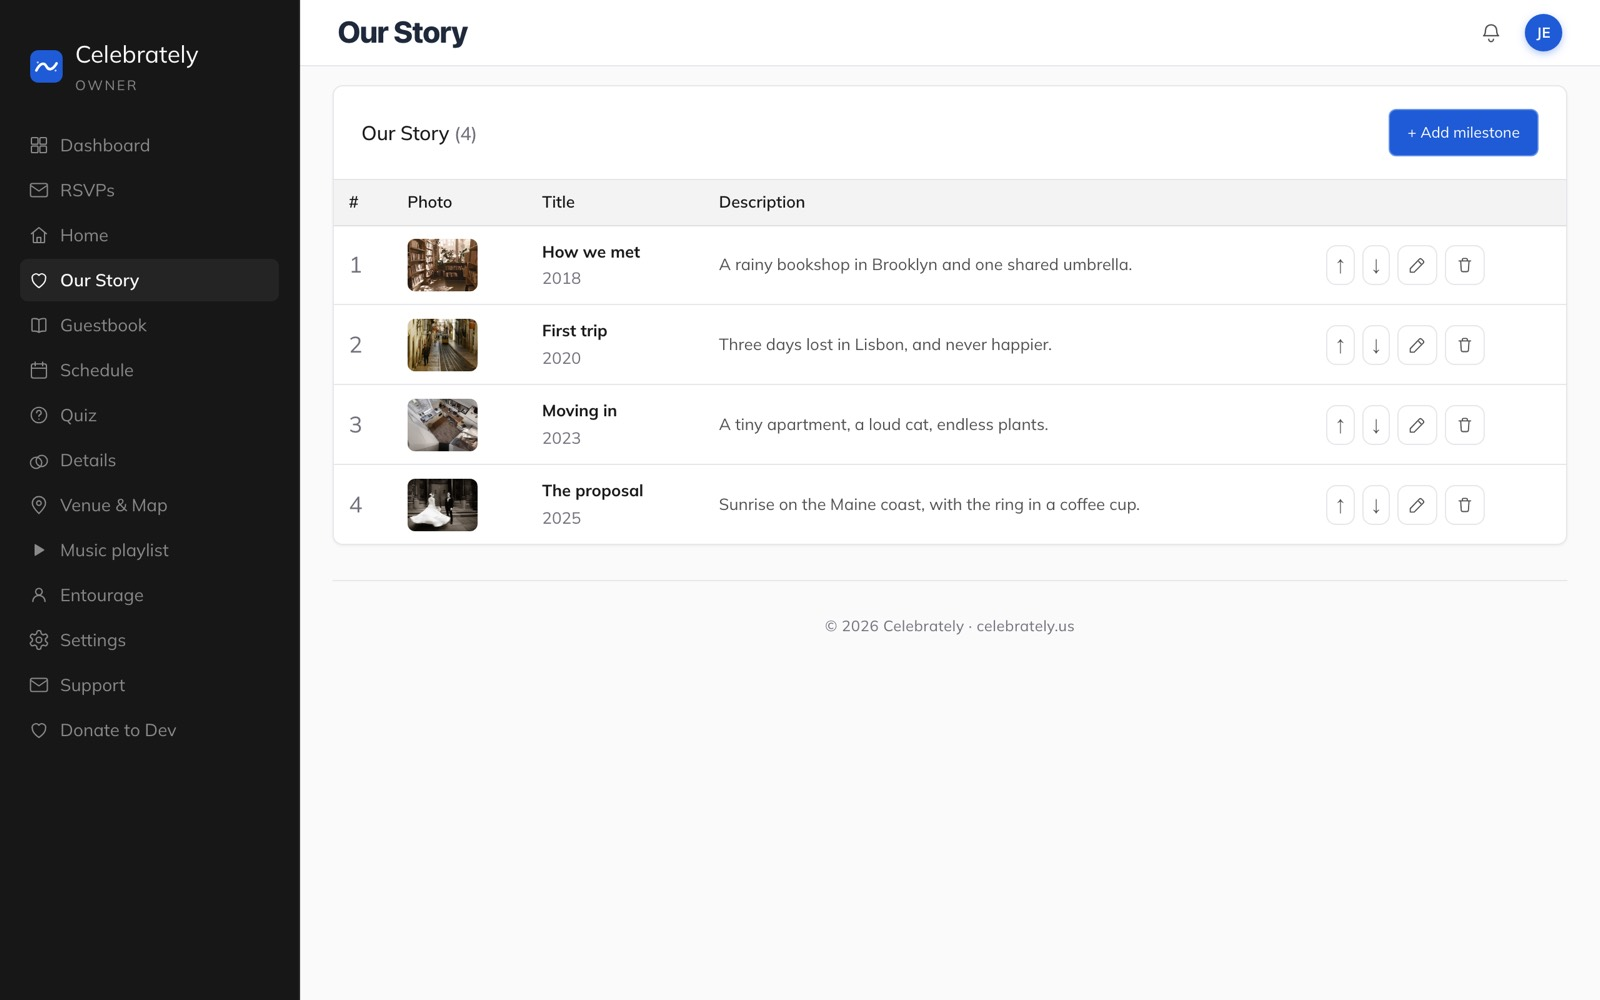
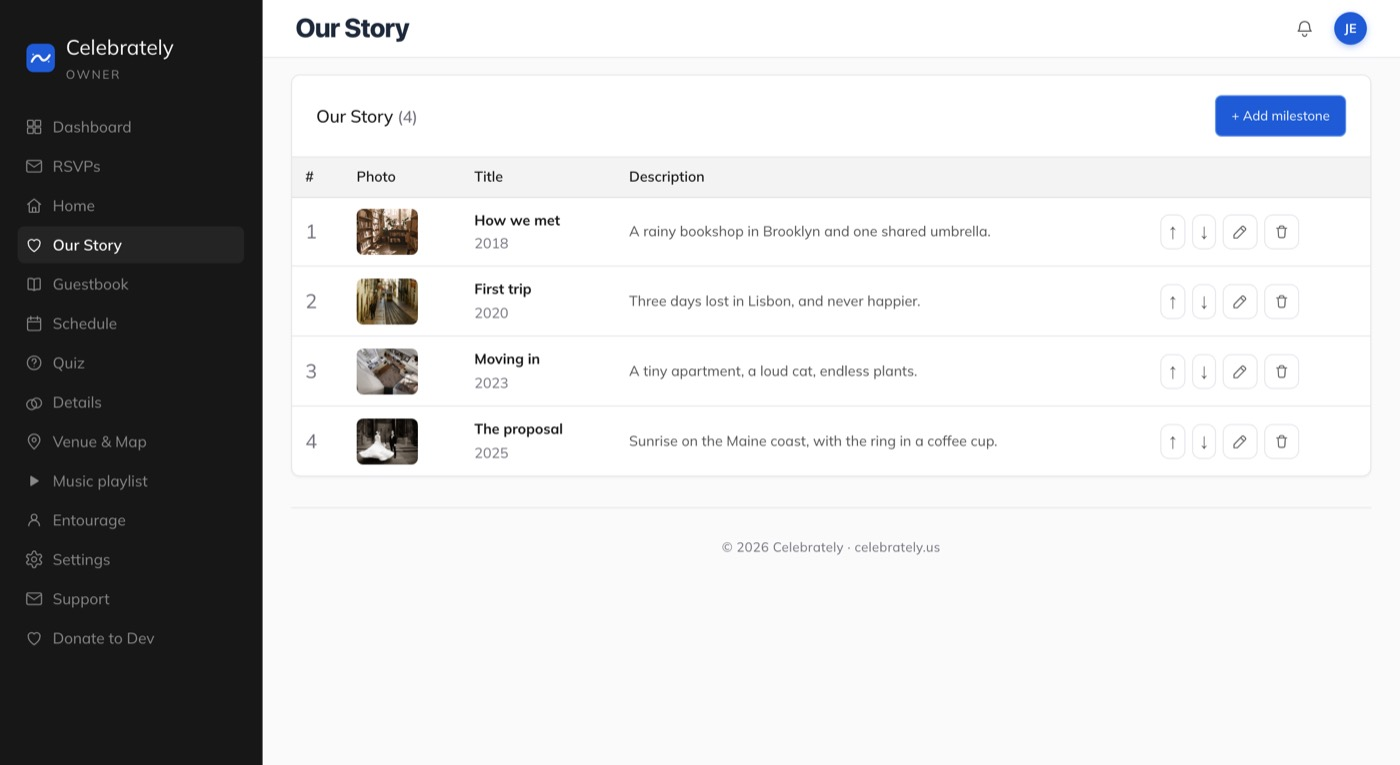
refactor: locked-feature page — schedule-style horizontal rail, no badges, no hint
Owner: the desktop preview was too big, drop the "In your dashboard" /
"What your guests see" badges, match the schedule's horizontal carousel, and
drop the "part of the Premium plan" line — the page should be clean.

- RailNav (the frosted chevron/dot pill under the public schedule's horizontal
  timeline) moves from PublicPages into components.jsx and is now shared. The
  locked preview is a snap-scroll rail paged by the same widget, with the same
  scroll-progress → active-dot mapping, so it swipes on a phone and drags on a
  trackpad instead of crossfading in place.
- Screenshots capped at 560px wide (was a full-bleed 16/10 frame) and re-cropped
  to 1280x700 so neither slide carries dead whitespace. Both slides share an
  aspect ratio, so the rail height never jumps.
- Badges, per-slide captions and the Premium hint line are gone. What's left:
  padlock, title, one line of description, the shots, one button.
- Header/rail/CTA get one staggered entrance; autoplay every 5s pauses on
  hover, focus and touch, and is off under prefers-reduced-motion.

Verified at 1380px and 414px: 2 slides, pill with 2 dots + 2 chevrons, 0 badges,
0 captions, no hint text, image 560x307 desktop / 358x197 mobile, autoplay pages
the rail on its own and the chevron pages back, no horizontal page scroll.

diff --git a/src/admin/manage.jsx b/src/admin/manage.jsx
@@ -2,7 +2,7 @@ import React from "react";
 import { go } from "@/lib/nav.js";
 import { Store, useStore, uid } from "@/lib/store.jsx";
 import { EG_TINTS, ENV_COLORS, ENV_SEAL_MASK, ENV_SEAL_POS, THEMES, THEME_FONTS, egTintGradientFor, envColorFilterFor, isPremiumTheme, isEnvelopeTheme } from "@/themes";
-import { Button, CropModal, DecorPreview, FallingFx, Field, Icon, Input, Modal, Monogram, Pager, Placeholder, SectionHead, Select, Textarea, confirmDialog, mapEmbedUrl, mapSearchUrl, toast, usePaged } from "@/ui/components.jsx";
+import { Button, CropModal, DecorPreview, FallingFx, Field, Icon, Input, Modal, Monogram, Pager, Placeholder, RailNav, SectionHead, Select, Textarea, confirmDialog, mapEmbedUrl, mapSearchUrl, toast, usePaged } from "@/ui/components.jsx";
 import { FX_LIST } from "@/lib/falling-fx.js";
 import { Home } from "@/pages/PublicPages.jsx";
 import { AdminDashboard, AdminLogin, Logo, QRCanvas, downloadCSV, downloadQR, fmtDate } from "@/admin/core.jsx";
@@ -4198,47 +4198,62 @@ export function MusicAdmin({ headExtra = null }) {
 // jpgs in public/assets/locked/ and add a key here.
 const LOCKED_SHOTS = {
   story: [
-    { src: "/assets/locked/story-admin.jpg", tag: "In your dashboard", cap: "Add each milestone — a photo, the year, and a line about the moment." },
-    { src: "/assets/locked/story-public.jpg", tag: "What your guests see", cap: "Your story reads as a timeline on your website, in your theme." },
+    { src: "/assets/locked/story-admin.jpg", alt: "the Our Story editor in your dashboard" },
+    { src: "/assets/locked/story-public.jpg", alt: "the Our Story page your guests read" },
   ],
 };
 
-// Auto-playing screenshot carousel for the locked-feature pitch. Crossfade, dots
-// to jump, pauses on hover/focus; honours prefers-reduced-motion (no autoplay,
-// no transition — the dots still work).
+// Screenshot carousel for the locked-feature pitch, built exactly like the
+// public schedule's horizontal timeline: a snap-scroll rail paged by the frosted
+// chevron/dot pill (RailNav), so it swipes on a phone and drags on a trackpad.
+// Advances itself every 5s; pauses on hover/focus and under prefers-reduced-motion.
 export function LockedCarousel({ shots, label }) {
-  const [i, setI] = useState(0);
+  const rail = useRef(null);
+  const [active, setActive] = useState(0);
   const [paused, setPaused] = useState(false);
   const n = shots.length;
+  // scroll PROGRESS → active dot: dot i maps to scroll fraction i/(n-1), the
+  // same mapping useRailNav uses on the public site.
+  useEffect(() => {
+    const el = rail.current;
+    if (!el) return;
+    const update = () => {
+      const max = el.scrollWidth - el.clientWidth;
+      const frac = max > 4 ? el.scrollLeft / max : 0;
+      const idx = n > 1 ? Math.max(0, Math.min(n - 1, Math.round(frac * (n - 1)))) : 0;
+      setActive((p) => (p === idx ? p : idx));
+    };
+    update();
+    el.addEventListener("scroll", update, { passive: true });
+    window.addEventListener("resize", update);
+    return () => { el.removeEventListener("scroll", update); window.removeEventListener("resize", update); };
+  }, [n]);
+  const toItem = useCallback((i) => {
+    const el = rail.current;
+    if (!el) return;
+    const max = el.scrollWidth - el.clientWidth;
+    const j = Math.max(0, Math.min(n - 1, i));
+    el.scrollTo({ left: n > 1 ? (j / (n - 1)) * max : 0, behavior: "smooth" });
+  }, [n]);
   useEffect(() => {
     if (paused || n < 2) return;
     const still = typeof window !== "undefined" && window.matchMedia && window.matchMedia("(prefers-reduced-motion: reduce)").matches;
     if (still) return;
-    const t = setTimeout(() => setI((v) => (v + 1) % n), 4500);
+    const t = setTimeout(() => toItem((active + 1) % n), 5000);
     return () => clearTimeout(t);
-  }, [i, paused, n]);
+  }, [active, paused, n, toItem]);
   const hold = () => setPaused(true);
   const release = () => setPaused(false);
   return (
-    <div className="lcar" onMouseEnter={hold} onMouseLeave={release} onFocus={hold} onBlur={release}>
-      <div className="lcar__frame">
+    <div className="lcar" onMouseEnter={hold} onMouseLeave={release} onFocus={hold} onBlur={release} onTouchStart={hold}>
+      <div className="lcar__rail" ref={rail}>
         {shots.map((s, k) => (
-          <div key={s.src} className={"lcar__slide" + (k === i ? " lcar__slide--on" : "")} aria-hidden={k !== i}>
-            <img src={s.src} alt={`${label} — ${s.tag}`} loading={k === 0 ? "eager" : "lazy"} draggable="false" />
-            <span className="lcar__tag">{s.tag}</span>
+          <div key={s.src} className="lcar__slide">
+            <img src={s.src} alt={`${label} — ${s.alt}`} loading={k === 0 ? "eager" : "lazy"} draggable="false" />
           </div>
         ))}
       </div>
-      {/* caption sits BELOW the frame — on a phone an overlay would cover half the shot */}
-      <p className="lcar__cap">{shots[i].cap}</p>
-      {n > 1 && (
-        <div className="lcar__dots" role="tablist" aria-label={`${label} preview`}>
-          {shots.map((s, k) => (
-            <button key={s.src} type="button" role="tab" aria-selected={k === i} aria-label={s.tag}
-              className={"lcar__dot" + (k === i ? " lcar__dot--on" : "")} onClick={() => setI(k)} />
-          ))}
-        </div>
-      )}
+      {n > 1 && <RailNav n={n} active={active} toItem={toItem} itemNoun="preview" />}
     </div>
   );
 }
@@ -4256,14 +4271,13 @@ export function LockedFeature({ featureKey, goPurchase, children }) {
   if (shots && shots.length) return (
     <div className="lockpitch">
       <div className="lockpitch__head">
-        <div className="locked__icon">{Icon.lock({ style: { width: 26, height: 26 } })}</div>
+        <span className="lockpitch__lock">{Icon.lock({ style: { width: 18, height: 18 } })}</span>
         <h3 className="lockpitch__title">{label} is locked</h3>
         <p className="lockpitch__desc">{desc}</p>
       </div>
       <LockedCarousel shots={shots} label={label} />
       <div className="lockpitch__cta">
         <Button variant="primary" onClick={goPurchase}>{Icon.lock({ style: { width: 15, height: 15 } })} Purchase Premium</Button>
-        <p className="locked__hint">This feature is part of the Premium plan — see what's included.</p>
       </div>
     </div>
   );

diff --git a/src/styles/styles.css b/src/styles/styles.css
@@ -927,36 +927,33 @@ input[type="datetime-local"].input::-webkit-datetime-edit { padding: 0; }
 .admin__navlock { margin-left: auto; display: inline-flex; color: var(--muted); flex: none; }
 .admin__navlock svg { width: 13px; height: 13px; }
 
-/* Locked feature WITH screenshots — the pitch replaces the blurred page: lock
-   header, auto-playing carousel (owner's module + the guest-facing page), CTA. */
-.lockpitch { max-width: 820px; margin: 0 auto; padding: 6px 0 10px; }
-.lockpitch__head { text-align: center; margin-bottom: 18px; }
-.lockpitch__title { margin: 0 0 6px; font-size: 21px; color: var(--ink); }
-.lockpitch__desc { margin: 0 auto; max-width: 520px; color: var(--muted); font-size: 14.5px; line-height: 1.55; }
-.lockpitch__cta { text-align: center; margin-top: 20px; }
+/* Locked feature WITH screenshots — the pitch replaces the blurred page. Quiet
+   by design: one padlock, one line of type, the screenshots, one button. The
+   carousel is the public schedule's rail (snap-scroll + frosted RailNav pill). */
+.lockpitch { max-width: 680px; margin: 0 auto; padding: 10px 0 6px; text-align: center; }
+.lockpitch__head { margin-bottom: 22px; }
+.lockpitch__lock { display: inline-grid; place-items: center; width: 34px; height: 34px; margin-bottom: 12px;
+  border-radius: 10px; background: var(--accent-soft); color: var(--accent); }
+.lockpitch__title { margin: 0 0 7px; font-size: 20px; letter-spacing: -.01em; color: var(--ink); }
+.lockpitch__desc { margin: 0 auto; max-width: 430px; color: var(--muted); font-size: 14px; line-height: 1.6; }
+.lockpitch__cta { margin-top: 22px; }
 
-.lcar { position: relative; }
-/* fixed 16/10 frame — both slides are captured at 1280x800, so nothing crops */
-.lcar__frame { position: relative; aspect-ratio: 16 / 10; border: 1px solid var(--line); border-radius: 14px; overflow: hidden; background: var(--surface-2); box-shadow: 0 26px 54px -26px rgba(0,0,0,.45); }
-.lcar__slide { position: absolute; inset: 0; margin: 0; opacity: 0; transition: opacity .6s ease; pointer-events: none; }
-.lcar__slide--on { opacity: 1; }
-.lcar__slide img { display: block; width: 100%; height: 100%; object-fit: cover; object-position: top center; }
-/* small badge over the shot ("in your dashboard" / "what your guests see") */
-.lcar__tag { position: absolute; top: 10px; left: 10px; font-weight: 800; font-size: 10.5px; letter-spacing: .08em; text-transform: uppercase;
-  color: #fff; background: rgba(12,14,20,.82); border-radius: 100px; padding: 5px 11px; backdrop-filter: saturate(160%) blur(2px); }
-/* caption BELOW the frame, never over the screenshot (a phone frame is small) */
-.lcar__cap { margin: 12px auto 0; max-width: 560px; text-align: center; color: var(--muted); font-size: 13.5px; line-height: 1.5; }
-.lcar__dots { display: flex; justify-content: center; gap: 8px; margin-top: 12px; }
-.lcar__dot { width: 8px; height: 8px; padding: 0; border: none; border-radius: 50%; background: var(--line); cursor: pointer; transition: background .25s ease, transform .25s ease; }
-.lcar__dot--on { background: var(--accent); transform: scale(1.35); }
-@media (max-width: 560px) {
-  .lcar__cap { font-size: 12.5px; }
-  .lcar__tag { font-size: 9.5px; padding: 4px 9px; top: 8px; left: 8px; }
-}
-@media (prefers-reduced-motion: reduce) {
-  .lcar__slide { transition: none; }
-  .lcar__dot { transition: none; }
-}
+/* one screenshot per snap slide; the shot itself is capped so a wide desktop
+   doesn't blow it up to poster size */
+.lcar__rail { display: flex; overflow-x: auto; scroll-snap-type: x mandatory; scrollbar-width: none; -webkit-overflow-scrolling: touch; }
+.lcar__rail::-webkit-scrollbar { display: none; }
+.lcar__slide { flex: 0 0 100%; min-width: 0; scroll-snap-align: center; display: flex; justify-content: center; padding: 2px; }
+.lcar__slide img { display: block; width: 100%; max-width: 560px; height: auto; border-radius: 12px;
+  border: 1px solid var(--line); background: var(--surface); box-shadow: 0 18px 40px -24px rgba(0,0,0,.42); }
+/* the rail's pill sits tighter than the public timeline's */
+.lockpitch .tl-nav { margin-top: 16px; }
+@media (max-width: 560px) { .lcar__slide img { border-radius: 10px; } }
+/* one composed entrance: header, then the shot, then the button */
+.lockpitch__head, .lockpitch .lcar, .lockpitch__cta { animation: lockpitch-in .5s cubic-bezier(.22,.61,.36,1) both; }
+.lockpitch .lcar { animation-delay: .07s; }
+.lockpitch__cta { animation-delay: .14s; }
+@keyframes lockpitch-in { from { opacity: 0; transform: translateY(10px); } to { opacity: 1; transform: none; } }
+@media (prefers-reduced-motion: reduce) { .lockpitch__head, .lockpitch .lcar, .lockpitch__cta { animation: none; } }
 
 /* Premium purchase page — pricing-page layout: centered hero, plan cards with
    pill CTAs, then a grouped "Compare all features" table. */

diff --git a/src/pages/PublicPages.jsx b/src/pages/PublicPages.jsx
@@ -7,7 +7,7 @@ import { mapStyleFilter } from "@/lib/mapStyles.js";
 import { featureVisible, moduleEnabled, sectionLabel } from "@/lib/roles.js";
 import { PREVIEW_SAMPLES } from "@/lib/samples.js";
 import { egTintGradientFor, envColorFilterFor, isEnvelopeTheme } from "@/themes";
-import { Button, Countdown, FloatingDecor, Icon, Placeholder, SectionHead, mapCoordStr, mapDirUrl, mapEmbedUrl, mapResolveQuery } from "@/ui/components.jsx";
+import { Button, Countdown, FloatingDecor, Icon, Placeholder, RailNav, SectionHead, mapCoordStr, mapDirUrl, mapEmbedUrl, mapResolveQuery } from "@/ui/components.jsx";
 import { VinylPlayer } from "@/features/music.jsx";
 const { useState, useEffect, useRef, useMemo, useCallback, useReducer } = React;
 
@@ -1029,24 +1029,8 @@ function useRailNav(n) {
   return { ref, active, overflow, toItem };
 }
 
-// Frosted nav pill (chevrons + dot indicators) shown only when a rail overflows.
-function RailNav({ n, active, toItem, itemNoun = "item" }) {
-  return (
-    <div className="tl-nav">
-      <button type="button" className="tl-nav__arrow" onClick={() => toItem(active - 1)} disabled={active === 0} aria-label="Previous">
-        <svg viewBox="0 0 24 24" fill="none" stroke="currentColor" strokeWidth="2" strokeLinecap="round" strokeLinejoin="round"><path d="M15 18l-6-6 6-6" /></svg>
-      </button>
-      <div className="tl-nav__dots">
-        {Array.from({ length: n }, (_, i) => (
-          <button key={i} type="button" className={"tl-nav__dot" + (i === active ? " is-active" : "")} onClick={() => toItem(i)} aria-label={`Go to ${itemNoun} ${i + 1}`} aria-current={i === active} />
-        ))}
-      </div>
-      <button type="button" className="tl-nav__arrow" onClick={() => toItem(active + 1)} disabled={active === n - 1} aria-label="Next">
-        <svg viewBox="0 0 24 24" fill="none" stroke="currentColor" strokeWidth="2" strokeLinecap="round" strokeLinejoin="round"><path d="M9 18l6-6-6-6" /></svg>
-      </button>
-    </div>
-  );
-}
+// The frosted nav pill (chevrons + dots) now lives in components.jsx as RailNav
+// — the admin's locked-feature preview pages with the same control.
 
 // Home Details, horizontal layout: same carousel mechanics as the horizontal
 // timeline (scroll rail + frosted chevron/dot pill). On desktop the row becomes

diff --git a/src/ui/components.jsx b/src/ui/components.jsx
@@ -797,3 +797,24 @@ export function DecorPreview({ style }) {
   );
 }
 
+
+// Frosted rail nav (chevrons + dot indicators) — the control under the public
+// schedule's horizontal timeline and the home Details carousel. Shared so the
+// admin's locked-feature preview can page with the exact same widget.
+export function RailNav({ n, active, toItem, itemNoun = "item" }) {
+  return (
+    <div className="tl-nav">
+      <button type="button" className="tl-nav__arrow" onClick={() => toItem(active - 1)} disabled={active === 0} aria-label="Previous">
+        <svg viewBox="0 0 24 24" fill="none" stroke="currentColor" strokeWidth="2" strokeLinecap="round" strokeLinejoin="round"><path d="M15 18l-6-6 6-6" /></svg>
+      </button>
+      <div className="tl-nav__dots">
+        {Array.from({ length: n }, (_, i) => (
+          <button key={i} type="button" className={"tl-nav__dot" + (i === active ? " is-active" : "")} onClick={() => toItem(i)} aria-label={`Go to ${itemNoun} ${i + 1}`} aria-current={i === active} />
+        ))}
+      </div>
+      <button type="button" className="tl-nav__arrow" onClick={() => toItem(active + 1)} disabled={active === n - 1} aria-label="Next">
+        <svg viewBox="0 0 24 24" fill="none" stroke="currentColor" strokeWidth="2" strokeLinecap="round" strokeLinejoin="round"><path d="M9 18l6-6-6-6" /></svg>
+      </button>
+    </div>
+  );
+}
